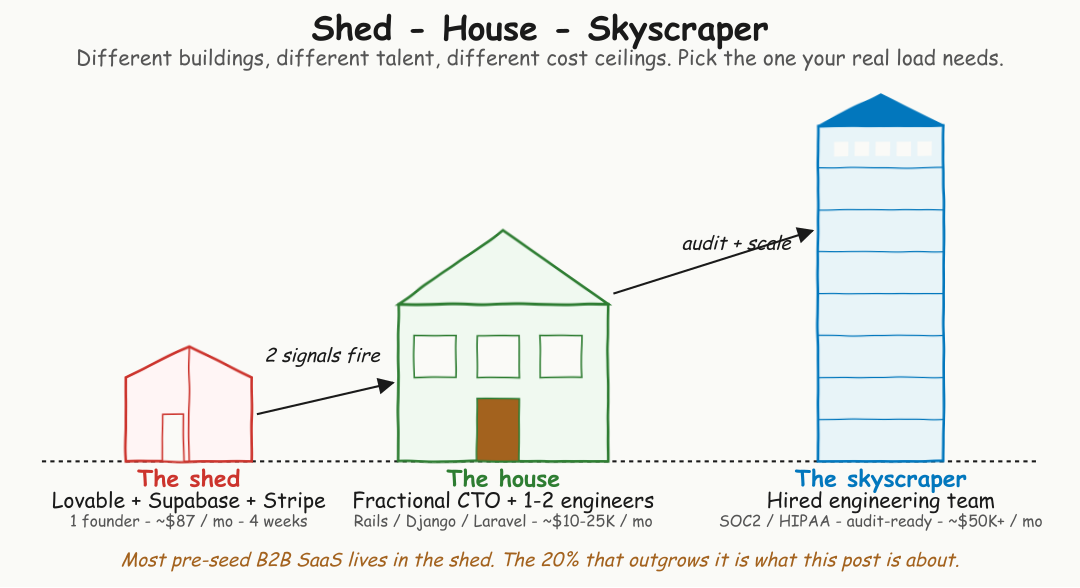
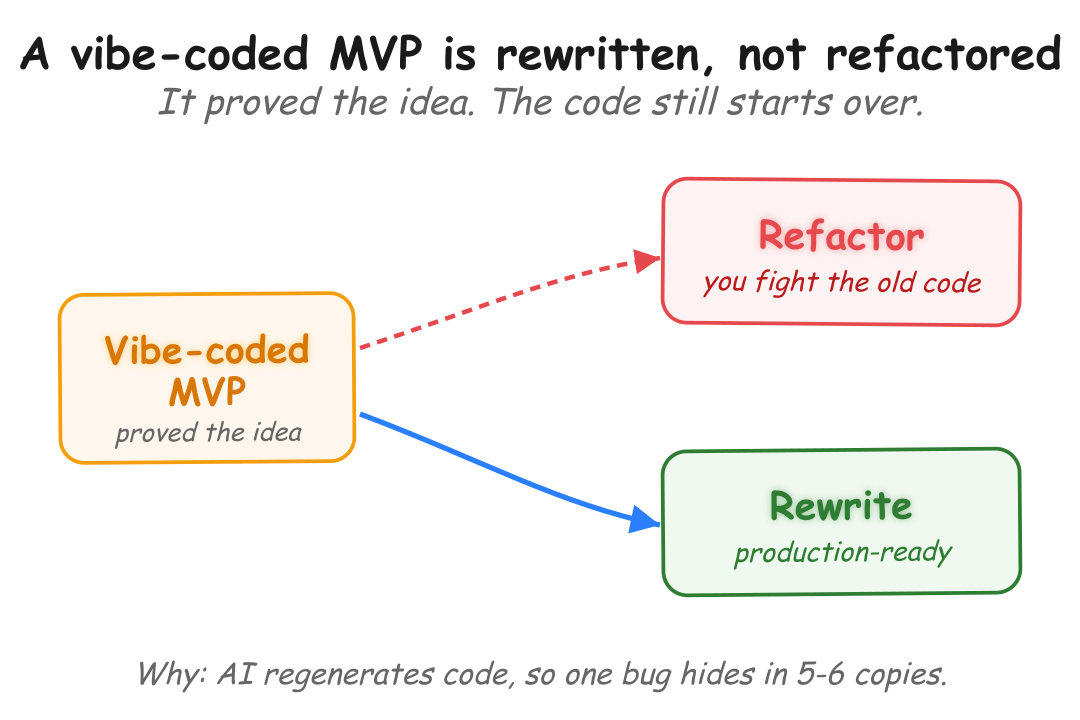
li board: purpose-built vibe-coding exhibit + roomier image layout
- new exhibit backlog-vibe-coding-disposable.svg (refactoring.fm house style,
  W=720 3:2): MVP forks to Refactor(red dashed, anti-pattern) vs Rewrite(blue
  arrow -> green production). One action title + message + basis line. Replaces
  the reused shed-house-skyscraper (too much info per Paul). Render-verified,
  title width fixed (34->30px, was clipping).
- single.html: 2-col image|body, Details moved full-width to the bottom (frees
  width at MBP-14), image column 300->460px, image wrapped in click-to-open
  new-tab link (drag-to-attach preserved)

Changed region(s): [[0.0, 0.0306, 1.0, 0.9796], [0.0306, 0.4286, 0.0611, 0.6122], [0.3056, 0.7653, 0.3361, 0.7959]]

diff --git a/layouts/linkedin/single.html b/layouts/linkedin/single.html
@@ -18,8 +18,8 @@
     h1 { font-size: 1.2rem; margin: .6rem 0 .3rem; overflow-wrap: anywhere; }
     .meta { font-size: .78rem; color: var(--muted); margin: 0 0 1.2rem; display: flex; flex-wrap: wrap; gap: .3rem .5rem; }
     .pill { background: #eceef1; border-radius: 4px; padding: .05rem .4rem; }
-    .cols { display: grid; grid-template-columns: 300px minmax(0,1fr) 290px; gap: 1.1rem; align-items: start; }
-    @media (max-width: 1000px) { .cols { grid-template-columns: 1fr; } .col-meta { position: static !important; } }
+    .cols { display: grid; grid-template-columns: 460px minmax(0,1fr); gap: 1.1rem; align-items: start; }
+    @media (max-width: 1000px) { .cols { grid-template-columns: 1fr; } }
     .block { position: relative; background: #fff; border: 1px solid var(--line); border-radius: 10px; padding: 1rem 1.05rem; margin-bottom: 1.1rem; }
     .body-text { white-space: pre-wrap; overflow-wrap: anywhere; }
     h2 { font-size: .82rem; text-transform: uppercase; letter-spacing: .05em; margin: 0 0 .5rem; color: var(--muted); }
@@ -36,7 +36,7 @@
     .hint { font-size: .72rem; color: var(--muted); margin: .7rem 0 0; text-align: left; }
     .hint code { background: #eceef1; padding: .05rem .3rem; border-radius: 3px; word-break: break-all; }
     .no-img { color: #9aa0a8; font-size: .82rem; }
-    .col-meta { position: sticky; top: 1.25rem; }
+    .col-meta { grid-column: 1 / -1; margin-top: .1rem; }
     .panel { background: #fff; border: 1px solid var(--line); border-radius: 10px; padding: .9rem 1rem; font-size: .8rem; }
     .panel-head { display: flex; align-items: center; justify-content: space-between; margin-bottom: .7rem; }
     .panel h3 { font-size: .72rem; text-transform: uppercase; letter-spacing: .05em; color: var(--muted); margin: 0; }
@@ -98,7 +98,9 @@
           {{ if $visualRaw }}<div class="btn-row"><button class="copy-btn icon-only" id="copy-img" title="Copy image">{{ $copyIcon | safeHTML }}<span></span></button></div>{{ end }}
           <h2>Visual</h2>
           {{ if $visualRaw }}
-            <img id="post-img" src="/linkedin-assets/{{ $laneDir }}/{{ path.Base $visualRaw }}" alt="post visual" onerror="this.style.display='none';document.getElementById('noimg').style.display='block'" draggable="true" />
+            <a href="/linkedin-assets/{{ $laneDir }}/{{ path.Base $visualRaw }}" target="_blank" rel="noopener" title="Open full size in a new tab (drag the image to attach it)">
+              <img id="post-img" src="/linkedin-assets/{{ $laneDir }}/{{ path.Base $visualRaw }}" alt="post visual" onerror="this.style.display='none';document.getElementById('noimg').style.display='block'" draggable="true" />
+            </a>
             <p id="noimg" class="no-img" style="display:none">Image not found on disk.</p>
           {{ else }}
             <p class="no-img">No visual set for this post.</p>
